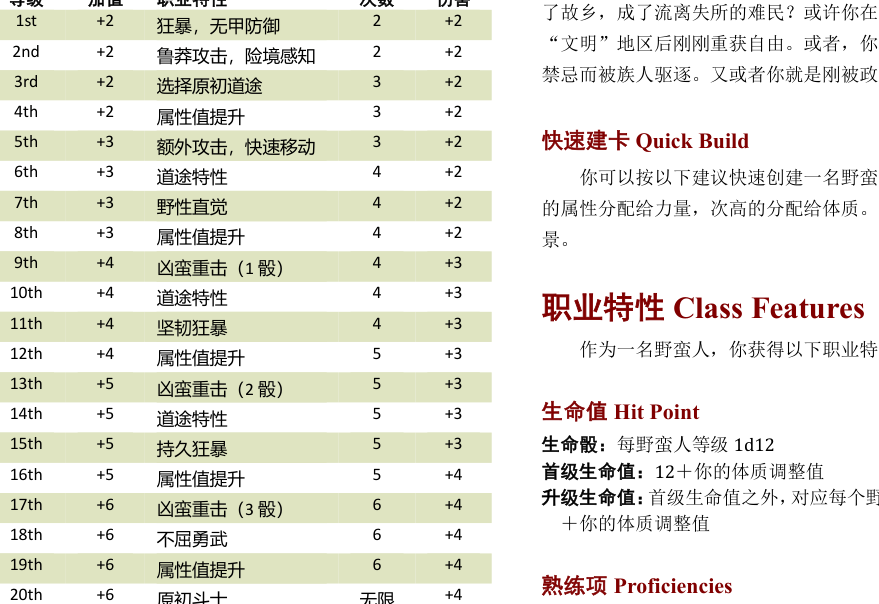
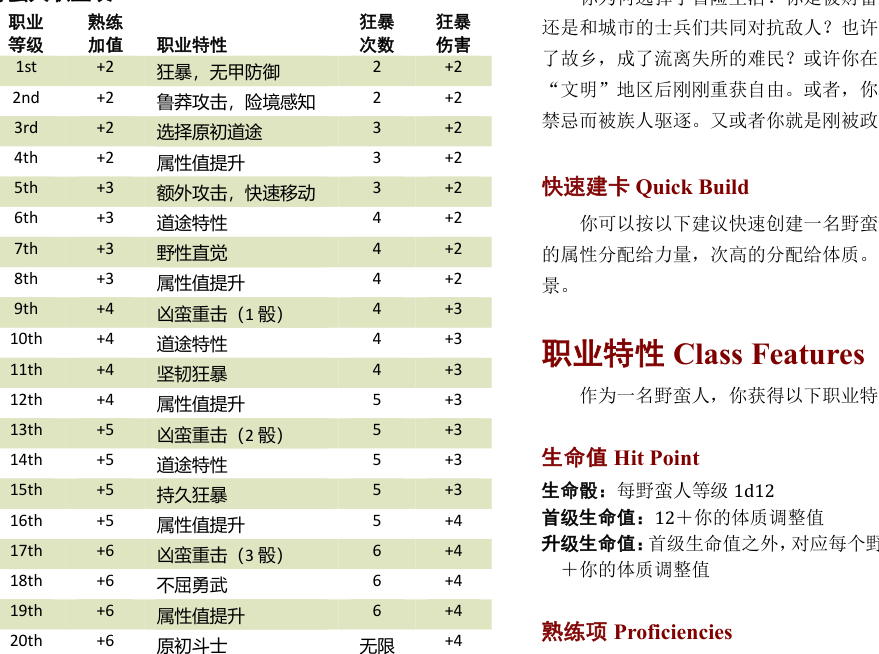
fix: 职业等级表切图精度提升(含表头与列头,止于末行)
- 向上扫描表标题(XX职业表)与列头短词行纳入裁剪
- 底部止于 20th 行,不多截段落
- 本地模型验收:含列头(等级/熟练加值/职业特性/次数/伤害)、
  1st-20th 完整、末行原初斗士,无多余段落

diff --git a/scripts/render_class_tables.py b/scripts/render_class_tables.py
@@ -17,8 +17,14 @@ PDF = Path("D:/bdxiazi/DND 5E 规则包/DND_5E_玩家手册CN.pdf")
 DST = Path(__file__).resolve().parent.parent / "anko" / "static" / "img" / "kb"
 GRADE = re.compile(r"^\d+(st|nd|rd|th)$")
 
+ZH_EN = {
+    "野蛮人": "barbarian", "吟游诗人": "bard", "牧师": "cleric", "德鲁伊": "druid",
+    "战士": "fighter", "武僧": "monk", "圣武士": "paladin", "游侠": "ranger",
+    "游荡者": "rogue", "术士": "sorcerer", "邪术师": "warlock", "法师": "wizard",
+}
 
-def find_and_crop(doc, pno0, zh):
+
+def find_and_crop(doc, pno0, en):
     for pno in range(pno0, min(pno0 + 7, len(doc))):
         page = doc[pno]
         words = page.get_text("words")
@@ -31,13 +37,29 @@ def find_and_crop(doc, pno0, zh):
         ]
         if len(grade_rows) < 12:
             continue
+        # 等级行基线
         ys = sorted({y for y, _ in grade_rows})
-        y0, y1 = ys[0] - 6, ys[-1] + 8
+        y_min_lv, y_max_lv = ys[0], ys[-1]
         x0 = min(min(w[0] for w in ws) for _, ws in grade_rows) - 4
         x1 = max(max(w[2] for w in ws) for _, ws in grade_rows) + 6
-        clip = pymupdf.Rect(x0, y0, min(x1, page.rect.width), y1)
+
+        # 向上找表头(标题行"XX职业表" + 列头短词),限定在表宽内、y 距首行<=130
+        x_lo, x_hi = x0 - 6, min(x1 + 10, page.rect.width)
+        header_ys = []
+        for y, ws in sorted(rows.items()):
+            if y >= y_min_lv - 2 or y_min_lv - y > 130:
+                continue
+            inwin = [w for w in ws if x_lo <= w[0] and w[0] <= x_hi]
+            if not inwin:
+                continue
+            joined = "".join(w[4] for w in inwin)
+            if len(joined) <= 18 or "职业表" in joined or "表" in joined:
+                header_ys.append(y)
+        y_top = (min(header_ys) - 5) if header_ys else (y_min_lv - 34)
+
+        clip = pymupdf.Rect(x0, y_top, min(x1, page.rect.width), y_max_lv + 10)
         pix = page.get_pixmap(matrix=pymupdf.Matrix(2.2, 2.2), clip=clip, alpha=False)
-        out = DST / f"class_{zh}_table.png"
+        out = DST / f"class_{en}_table.png"
         pix.save(str(out))
         return pno, f"/static/img/kb/{out.name}"
     return None, None
@@ -57,7 +79,11 @@ def main() -> None:
         ).all()
         for cls in sorted(classes, key=lambda x: x.page):
             zh = (cls.title or "").split(" ")[0]
-            pno, url = find_and_crop(doc, cls.page - 1, zh)
+            en = ZH_EN.get(zh)
+            if not en:
+                print(f"跳过(无英文名): {zh}")
+                continue
+            pno, url = find_and_crop(doc, cls.page - 1, en)
             if not pno:
                 print(f"跳过(未找到等级表): {zh}")
                 continue
